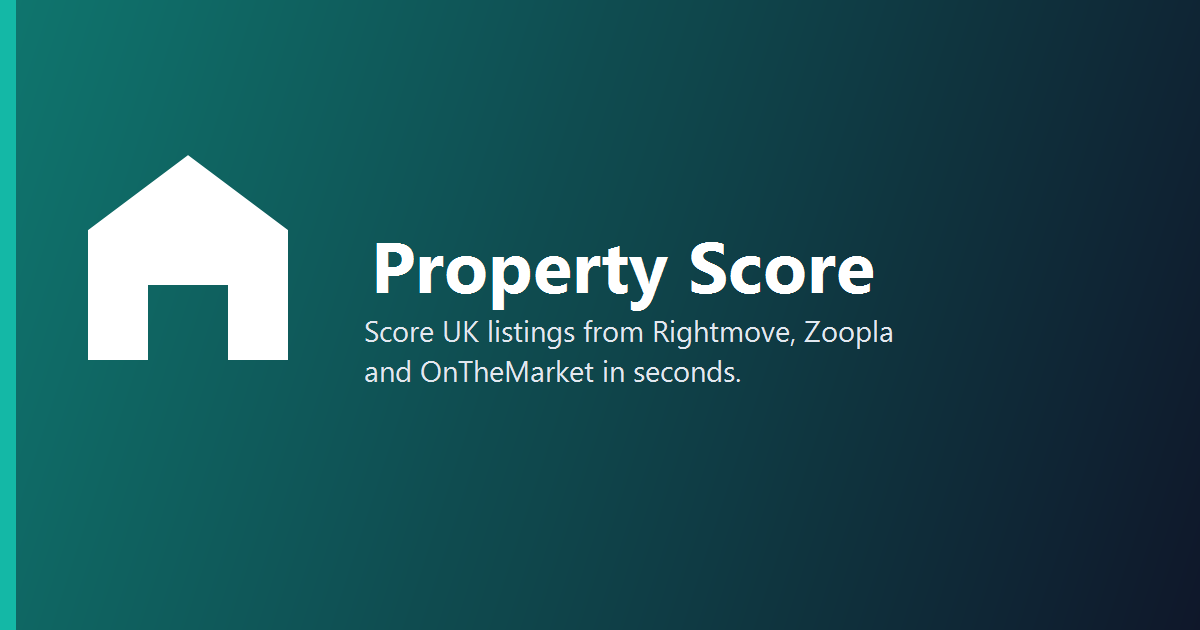
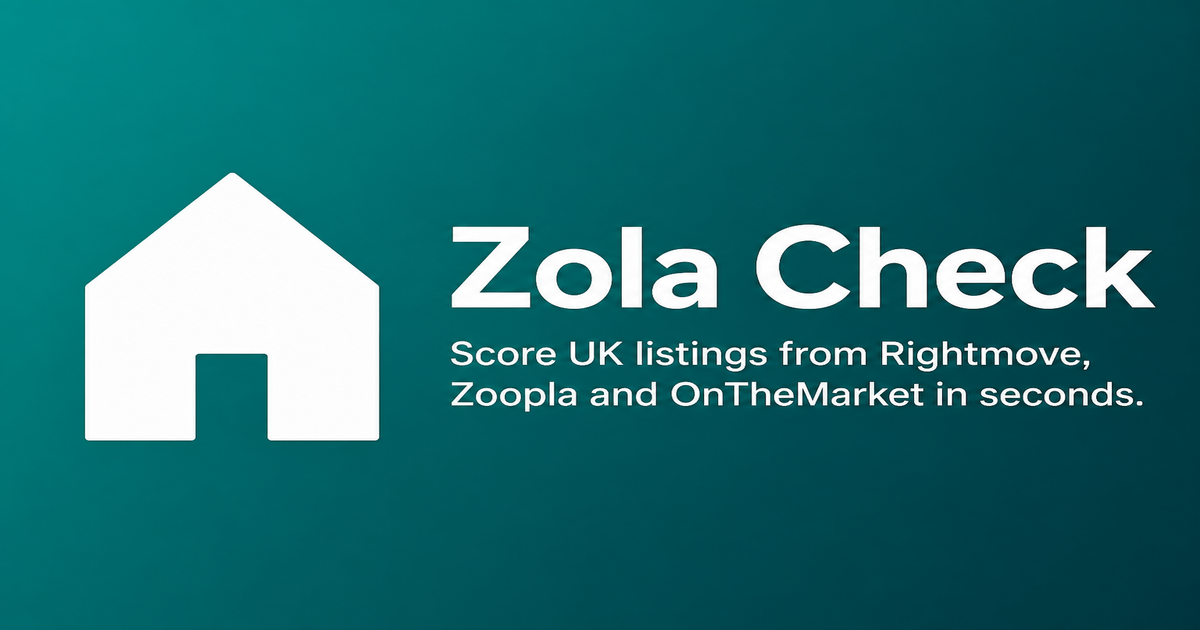
Rebrand the site to Zola Check (#43)
* Rebrand the site to Zola Check on zolacheck.com.

* Template SEO strings with SITE_NAME for single-edit rebranding

- DEFAULT_OG_IMAGE_ALT now interpolates SITE_NAME
- HOME_TITLE, PRICING_TITLE, LOGIN_TITLE, NOT_FOUND_TITLE use SITE_NAME
- PRICING_DESCRIPTION, LOGIN_DESCRIPTION, NOT_FOUND_DESCRIPTION use SITE_NAME
- Noscript HTML for login and 404 pages uses SITE_NAME
- All APP_PAGES titles and descriptions use SITE_NAME
- Added tests to verify SEO strings contain SITE_NAME

The next brand rename requires changing only the SITE_NAME constant.

* Rebrand visual assets to Zola Check

- og-image.png: Replace Property Score artwork with Zola Check branding
- favicon.svg: Update house mark to Z lettermark
- apple-touch-icon.png: Regenerate with Z lettermark (180x180)

Theme colors preserved: teal #0F766E, background #F8FAFC

* Unify Z mark across BrandMark, favicon, and OG image

- Add ZMarkIcon and Z_MARK_PATH to icons.tsx as single source of truth
- BrandMark now renders ZMarkIcon instead of empty teal Box
- Remove dead 'v0' from favicon.svg path
- Update og-image.png to use Z mark instead of house icon

BrandMark public API (to, SITE_NAME wordmark, aria-label) preserved.

* Revert to house mark as primary brand icon

- Replace ZMarkIcon with HouseMarkIcon in icons.tsx
- BrandMark now renders HouseMarkIcon
- Favicon, apple-touch-icon, and og-image all use house mark
- Zola Check wordmark retained on OG image
- Theme colors preserved: teal #0F766E, background #F8FAFC
[…]

diff --git a/src/lib/seo.ts b/src/lib/seo.ts
@@ -1,10 +1,9 @@
 import { LANDING_FAQS } from '../content/faqs';
 
-export const SITE_NAME = 'Property Score';
-export const SITE_ORIGIN = 'https://property-score.netlify.app';
+export const SITE_NAME = 'Zola Check';
+export const SITE_ORIGIN = 'https://zolacheck.com';
 export const DEFAULT_OG_IMAGE_PATH = '/og-image.png';
-export const DEFAULT_OG_IMAGE_ALT =
-  'Property Score — investor reports for Rightmove, Zoopla and OnTheMarket listings';
+export const DEFAULT_OG_IMAGE_ALT = `${SITE_NAME} — investor reports for Rightmove, Zoopla and OnTheMarket listings`;
 
 export type RobotsDirective = 'index, follow' | 'noindex, nofollow';
 
@@ -17,22 +16,18 @@ export interface PageSeo {
   noscriptHtml: string;
 }
 
-const HOME_TITLE =
-  'Property Score | Score UK listings from Rightmove, Zoopla and OnTheMarket';
+const HOME_TITLE = `${SITE_NAME} | Score UK listings from Rightmove, Zoopla and OnTheMarket`;
 const HOME_DESCRIPTION =
   'Paste a Rightmove, Zoopla or OnTheMarket link and get an investor-grade score with yields, HMO licensing, floor plans and area data in seconds. 5 free analyses.';
 
-const PRICING_TITLE = 'Pricing and plans | Property Score';
-const PRICING_DESCRIPTION =
-  'Start free with 5 listing analyses. Paid Property Score plans add more monthly analyses, proposed HMO layouts and PDF reports. Cancel any time.';
+const PRICING_TITLE = `Pricing and plans | ${SITE_NAME}`;
+const PRICING_DESCRIPTION = `Start free with 5 listing analyses. Paid ${SITE_NAME} plans add more monthly analyses, proposed HMO layouts and PDF reports. Cancel any time.`;
 
-const LOGIN_TITLE = 'Sign in | Property Score';
-const LOGIN_DESCRIPTION =
-  'Sign in or create a Property Score account to score Rightmove, Zoopla and OnTheMarket listings for HMO conversion or buy to let.';
+const LOGIN_TITLE = `Sign in | ${SITE_NAME}`;
+const LOGIN_DESCRIPTION = `Sign in or create a ${SITE_NAME} account to score Rightmove, Zoopla and OnTheMarket listings for HMO conversion or buy to let.`;
 
-const NOT_FOUND_TITLE = 'Page not found | Property Score';
-const NOT_FOUND_DESCRIPTION =
-  'This page does not exist. Go back to Property Score to analyse a UK property listing.';
+const NOT_FOUND_TITLE = `Page not found | ${SITE_NAME}`;
+const NOT_FOUND_DESCRIPTION = `This page does not exist. Go back to ${SITE_NAME} to analyse a UK property listing.`;
 
 export function canonicalUrl(path: string): string {
   if (path === '/') {
@@ -237,7 +232,7 @@ export const LOGIN_SEO: PageSeo = {
   }),
   noscriptHtml: `
     <article>
-      <h1>Sign in to Property Score</h1>
+      <h1>Sign in to ${SITE_NAME}</h1>
       <p>${escapeHtml(LOGIN_DESCRIPTION)}</p>
       <p><a href="${SITE_ORIGIN}/">Back to home</a></p>
     </article>
@@ -258,7 +253,7 @@ export const NOT_FOUND_SEO: PageSeo = {
     <article>
       <h1>Page not found</h1>
       <p>${escapeHtml(NOT_FOUND_DESCRIPTION)}</p>
-      <p><a href="${SITE_ORIGIN}/">Go to Property Score</a></p>
+      <p><a href="${SITE_ORIGIN}/">Go to ${SITE_NAME}</a></p>
     </article>
   `.trim(),
 };
@@ -266,38 +261,38 @@ export const NOT_FOUND_SEO: PageSeo = {
 const APP_PAGES: PageSeo[] = [
   appPage(
     '/analyse',
-    'Analyse a listing | Property Score',
+    `Analyse a listing | ${SITE_NAME}`,
     'Paste a Rightmove, OnTheMarket or Zoopla URL and choose HMO conversion or buy to let.',
   ),
   appPage(
     '/deals',
-    'Your properties | Property Score',
-    'Your recent Property Score listing analyses.',
+    `Your properties | ${SITE_NAME}`,
+    `Your recent ${SITE_NAME} listing analyses.`,
   ),
   appPage(
     '/deals/:dealId',
-    'Property report | Property Score',
-    'Private Property Score investment report.',
+    `Property report | ${SITE_NAME}`,
+    `Private ${SITE_NAME} investment report.`,
   ),
   appPage(
     '/billing',
-    'Billing | Property Score',
-    'Manage your Property Score plan, analyses and top-ups.',
+    `Billing | ${SITE_NAME}`,
+    `Manage your ${SITE_NAME} plan, analyses and top-ups.`,
   ),
   appPage(
     '/billing/success',
-    'Payment successful | Property Score',
-    'Your Property Score payment was successful.',
+    `Payment successful | ${SITE_NAME}`,
+    `Your ${SITE_NAME} payment was successful.`,
   ),
   appPage(
     '/billing/cancel',
-    'Checkout cancelled | Property Score',
-    'Property Score checkout was cancelled. No charge was made.',
+    `Checkout cancelled | ${SITE_NAME}`,
+    `${SITE_NAME} checkout was cancelled. No charge was made.`,
   ),
   appPage(
     '/account',
-    'Account | Property Score',
-    'Manage your Property Score account, testimonials and support messages.',
+    `Account | ${SITE_NAME}`,
+    `Manage your ${SITE_NAME} account, testimonials and support messages.`,
   ),
 ];
 

diff --git a/src/lib/seo.test.ts b/src/lib/seo.test.ts
@@ -1,14 +1,45 @@
 import { describe, expect, it } from 'vitest';
 import {
+  DEFAULT_OG_IMAGE_ALT,
   HOME_SEO,
   LOGIN_SEO,
   NOT_FOUND_SEO,
   PRICING_SEO,
+  SITE_NAME,
   SITE_ORIGIN,
   applySeoPlaceholders,
   canonicalUrl,
   resolvePageSeo,
 } from '@/lib/seo';
+
+describe('site brand', () => {
+  it('uses the public Zola Check domain', () => {
+    expect(SITE_NAME).toBe('Zola Check');
+    expect(SITE_ORIGIN).toBe('https://zolacheck.com');
+  });
+
+  it('templates SEO titles with SITE_NAME', () => {
+    expect(HOME_SEO.title).toContain(SITE_NAME);
+    expect(PRICING_SEO.title).toContain(SITE_NAME);
+    expect(LOGIN_SEO.title).toContain(SITE_NAME);
+    expect(NOT_FOUND_SEO.title).toContain(SITE_NAME);
+  });
+
+  it('templates SEO descriptions with SITE_NAME where applicable', () => {
+    expect(PRICING_SEO.description).toContain(SITE_NAME);
+    expect(LOGIN_SEO.description).toContain(SITE_NAME);
+    expect(NOT_FOUND_SEO.description).toContain(SITE_NAME);
+  });
+
+  it('templates DEFAULT_OG_IMAGE_ALT with SITE_NAME', () => {
+    expect(DEFAULT_OG_IMAGE_ALT).toContain(SITE_NAME);
+  });
+
+  it('templates noscript HTML with SITE_NAME where applicable', () => {
+    expect(LOGIN_SEO.noscriptHtml).toContain(SITE_NAME);
+    expect(NOT_FOUND_SEO.noscriptHtml).toContain(SITE_NAME);
+  });
+});
 
 describe('canonicalUrl', () => {
   it('uses a trailing slash only on the homepage', () => {

diff --git a/src/components/layout/BrandAndCredits.tsx b/src/components/layout/BrandAndCredits.tsx
@@ -1,17 +1,18 @@
 import {
   Alert,
-  Box,
   Button,
   Chip,
   Stack,
   Typography,
 } from '@mui/material';
 import { Link as RouterLink } from 'react-router-dom';
+import { HouseMarkIcon } from '@/components/common/icons';
 import { useBilling } from '@/hooks/useBilling';
 import {
   isLowAnalysisBalance,
   remainingAnalysesBadgeLabel,
 } from '@/lib/plans';
+import { SITE_NAME } from '@/lib/seo';
 
 export function CreditsBadge() {
   const { data, isLoading, isError } = useBilling();
@@ -80,18 +81,10 @@ export function BrandMark({ to = '/' }: BrandMarkProps) {
       alignItems="center"
       component={RouterLink}
       to={to}
-      aria-label="Property Score home"
+      aria-label={`${SITE_NAME} home`}
       sx={{ textDecoration: 'none', color: 'inherit' }}
     >
-      <Box
-        sx={{
-          width: 28,
-          height: 28,
-          borderRadius: 1,
-          bgcolor: 'primary.main',
-        }}
-        aria-hidden
-      />
+      <HouseMarkIcon width={28} height={28} />
       <Typography
         variant="h6"
         component="span"
@@ -101,7 +94,7 @@ export function BrandMark({ to = '/' }: BrandMarkProps) {
           letterSpacing: '-0.01em',
         }}
       >
-        Property Score
+        {SITE_NAME}
       </Typography>
     </Stack>
   );

diff --git a/src/components/auth/AuthForm.tsx b/src/components/auth/AuthForm.tsx
@@ -8,8 +8,9 @@ import {
 } from '@mui/material';
 import { useState, type FormEvent } from 'react';
 import { GoogleIcon } from '@/components/auth/GoogleIcon';
-import { getAuthErrorMessage } from '@/lib/authErrors';
 import { trackLeadOnce } from '@/lib/analytics';
+import { getAuthErrorMessage } from '@/lib/authErrors';
+import { SITE_NAME } from '@/lib/seo';
 
 interface AuthFormProps {
   mode: 'signIn' | 'signUp';
@@ -76,7 +77,7 @@ export function AuthForm({
         <Typography color="text.secondary">
           {description ??
             (isSignIn
-              ? 'Use Google or your Property Score account to continue.'
+              ? `Use Google or your ${SITE_NAME} account to continue.`
               : 'New accounts start on the Free plan with 5 listing analyses.')}
         </Typography>
       </Stack>

diff --git a/src/components/analytics/CookieConsentBanner.tsx b/src/components/analytics/CookieConsentBanner.tsx
@@ -1,6 +1,7 @@
 import { Box, Button, Paper, Stack, Typography } from '@mui/material';
 import { useAnalyticsConsent } from '@/hooks/useAnalyticsConsent';
 import { setAnalyticsConsent } from '@/lib/analyticsConsent';
+import { SITE_NAME } from '@/lib/seo';
 
 interface CookieConsentBannerProps {
   forceOpen?: boolean;
@@ -65,7 +66,7 @@ export function CookieConsentBanner({
               variant="body2"
               color="text.secondary"
             >
-              Optional cookies help us understand how Property Score is used
+              Optional cookies help us understand how {SITE_NAME} is used
               and measure our marketing. Necessary sign-in cookies are always
               on.
             </Typography>

diff --git a/src/components/layout/SiteFooter.tsx b/src/components/layout/SiteFooter.tsx
@@ -2,6 +2,7 @@ import { Box, Button, Container, Link, Stack, Typography } from '@mui/material';
 import { alpha } from '@mui/material/styles';
 import { Link as RouterLink } from 'react-router-dom';
 import { useAuth } from '@/auth/AuthContext';
+import { SITE_NAME } from '@/lib/seo';
 
 interface SiteFooterProps {
   onCookieSettings?: () => void;
@@ -45,7 +46,7 @@ export function SiteFooter({ onCookieSettings }: SiteFooterProps) {
         >
           <Stack spacing={0.5} maxWidth={520}>
             <Typography variant="subtitle2" fontWeight={700}>
-              Property Score
+              {SITE_NAME}
             </Typography>
             <Typography
               variant="body2"

diff --git a/src/pages/NotFoundPage.tsx b/src/pages/NotFoundPage.tsx
@@ -1,5 +1,6 @@
 import { Button, Stack, Typography } from '@mui/material';
 import { Link as RouterLink } from 'react-router-dom';
+import { SITE_NAME } from '@/lib/seo';
 
 export function NotFoundPage() {
   return (
@@ -8,7 +9,7 @@ export function NotFoundPage() {
         Page not found
       </Typography>
       <Typography color="text.secondary">
-        That address is not a Property Score page. Head home to score a
+        That address is not a {SITE_NAME} page. Head home to score a
         Rightmove, Zoopla or OnTheMarket listing.
       </Typography>
       <Stack direction="row" spacing={1.5} flexWrap="wrap" useFlexGap>

diff --git a/src/components/common/icons.tsx b/src/components/common/icons.tsx
@@ -1,5 +1,21 @@
 import type { SVGProps } from 'react';
 
+export const HOUSE_MARK_PATH = 'M8 22V12l8-5 8 5v10h-5v-6h-6v6H8z';
+
+export function HouseMarkIcon(props: SVGProps<SVGSVGElement>) {
+  return (
+    <svg
+      viewBox="0 0 32 32"
+      aria-hidden="true"
+      focusable="false"
+      {...props}
+    >
+      <rect width="32" height="32" rx="6" fill="#0F766E" />
+      <path d={HOUSE_MARK_PATH} fill="#F8FAFC" />
+    </svg>
+  );
+}
+
 export function CloseIcon(props: SVGProps<SVGSVGElement>) {
   return (
     <svg

diff --git a/index.html b/index.html
@@ -13,7 +13,7 @@
       rel="stylesheet"
     />
     <!--seo-head-->
-    <title>Property Score | Score UK listings from Rightmove, Zoopla and OnTheMarket</title>
+    <title>Zola Check | Score UK listings from Rightmove, Zoopla and OnTheMarket</title>
     <meta
       name="description"
       content="Paste a Rightmove, Zoopla or OnTheMarket link and get an investor-grade score with yields, HMO licensing, floor plans and area data in seconds. 5 free analyses."

diff --git a/src/components/layout/SiteFooter.test.tsx b/src/components/layout/SiteFooter.test.tsx
@@ -44,6 +44,7 @@ describe('SiteFooter', () => {
   it('exposes public marketing links for visitors', () => {
     renderFooter(signedOutAuth);
 
+    expect(screen.getByText('Zola Check')).toBeInTheDocument();
     const nav = screen.getByRole('navigation', { name: 'Footer' });
     expect(nav).toHaveTextContent('Home');
     expect(nav).toHaveTextContent('Pricing');
